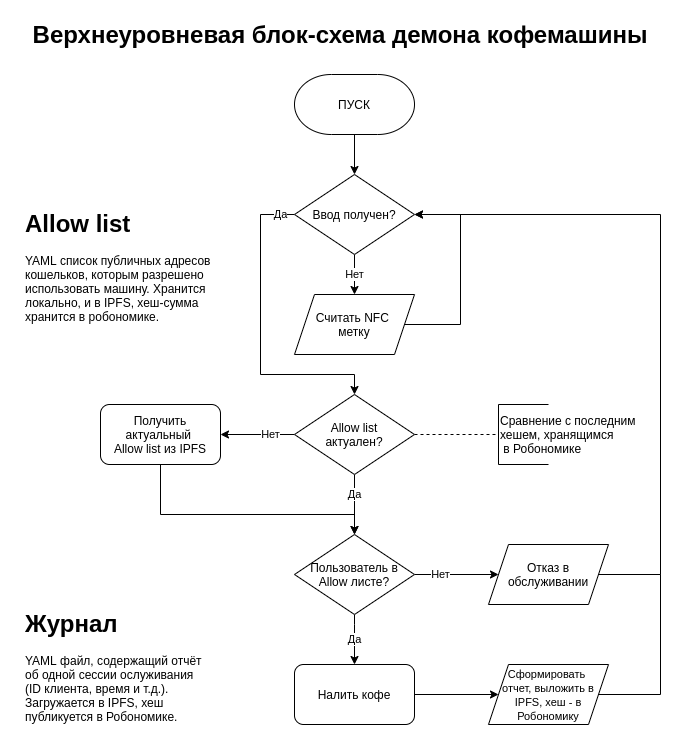
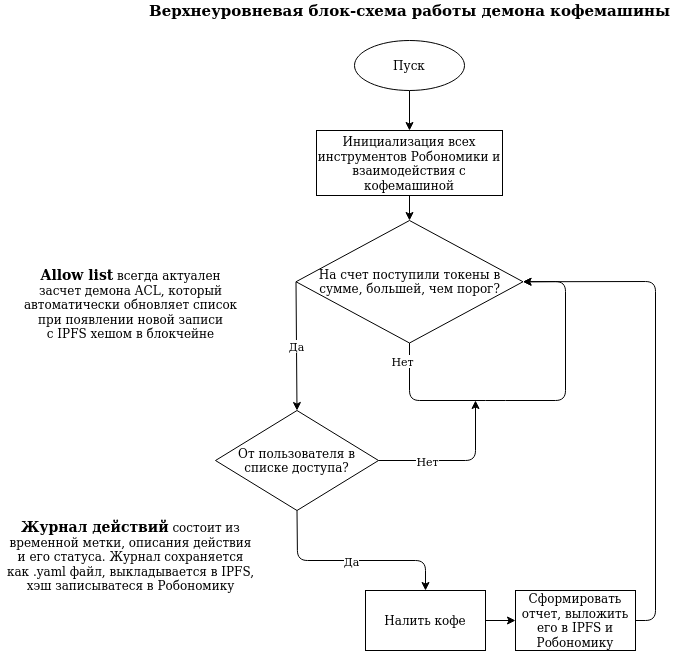
Removed NFC reader usage, now it's income tracker! Adjusted robonomics toolkit usage Updated readme

diff --git a/main.py b/main.py
@@ -1,11 +1,9 @@
-import rpi_funcs as rpi
-import io_funcs
 import sys
 import typing as tp
 import logging
 
 from classes import CoffeeMachine
-from robonomics_daos_toolkit import acl, action_logger, substrate_connection as subcon
+from robonomics_daos_toolkit import acl, action_logger, obtain_incomes, common_utils as cu
 
 # set up logging
 logging.basicConfig(
@@ -15,74 +13,66 @@ logging.basicConfig(
 )
 
 # load up configuration
-config: tp.Dict[str, tp.Any] = io_funcs.read_config()
-if not config:
-    logging.critical("Config load error, exiting")
-    sys.exit()
-else:
-    logging.info(f"Config load successful\n{config}")
+config: tp.Dict[str, tp.Any] = cu.read_yaml_file("config.yaml")
 
-# initializing all daos tools
-
-if config["use_daos_toolkit"]:
-    substrate = subcon.substrate_connection(config["daos_toolkit"]["substrate"])
-    if config["daos_toolkit"]["use_acl"]:
-        # initiate an instance of ACL class based on digital twin of a device
-        logging.info("initiating ACL class")
-        acl_obj = acl.ACL(config['daos_toolkit'], substrate)
-        if not acl_obj:
-            logging.critical("ACL instance error, exiting")
-            sys.exit()
-        else:
-            logging.info("ACL initiated")
-    if config["daos_toolkit"]["use_action_logger"]:
-        # initiate an instance of action logger
-        logging.info("initiating ActionLogger class")
-        action_logger = action_logger.ActionLogger(config['daos_toolkit'], substrate)
-        if not action_logger:
-            logging.critical("ActionLogger instance error, exiting")
-            sys.exit()
-        else:
-            logging.info("ActionLogger initiated")
+# connect to substrate
+substrate = cu.substrate_connection(config["daos_toolkit"]["substrate"])
 
 # initialize an instance of CoffeeMachine object
 coffee_machine = CoffeeMachine(
     gpio_outputs=[0, 21, 0, 0, 0, 0, 0]
 )
 
-# entry point
-if __name__ == "__main__":
-    logging.info("Daemon started")
 
-    # start the daemon
-    while True:
+# initializing all daos tools
+if config["use_daos_toolkit"]:
 
-        # poll NFC reader until input received
-        logging.info("Start polling NFC reader")
-        while True:
-            tag_id: str = rpi.poll_nfc_reader()
-            if tag_id:
-                logging.info(f"Found NFC tag with UID {tag_id}. Stopped polling")
-                break
+    if config["daos_toolkit"]["use_acl"]:
+        # initiate an instance of ACL class based on digital twin of a device
+        acl_obj = acl.ACL(config["daos_toolkit"], cu.substrate_connection(config["daos_toolkit"]["substrate"]))
+        if not acl_obj:
+            sys.exit()
 
-        if config["daos_toolkit"]["use_acl"]:
-            # check if user is allowed to use the machine
-            if not acl_obj.usage_allowed(tag_id):
-                logging.warning(f"UID {tag_id} is not in the allow list. Usage declined.")
-                continue
-            else:
-                logging.info(f"UID {tag_id} allowed. Continuing.")
+    if config["daos_toolkit"]["use_action_logger"]:
+        # initiate an instance of action logger
+        action_logger = action_logger.ActionLogger(config["daos_toolkit"],
+                                                   cu.substrate_connection(config["daos_toolkit"]["substrate"]))
+        if not action_logger:
+            sys.exit()
 
-        # make a coffee if usage allowed
-        operation = coffee_machine.make_a_coffee()
+logging.info("Coffee machine daemon started")
 
-        if operation["success"]:
-            logging.info("Operation successful.")
-            if config["daos_toolkit"]["use_action_logger"]:
-                action_logger.log_action(f"Making coffee for {tag_id}", "success")
+# start the daemon
+income_tracker = obtain_incomes.IncomeTracker(config["daos_toolkit"], substrate)
+
+while True:
+    # wait for money income event
+    income_tracker.money_income_event.wait()
+    income_tracker.money_income_event.clear()
+
+    if config["daos_toolkit"]["use_acl"]:
+        # check if user is allowed to use the machine
+        if not acl_obj.usage_allowed(income_tracker.money_income_event.source_address):
+            logging.warning(f"Account {income_tracker.money_income_event.source_address} is not in the allow list. "
+                            f"Usage declined. Thanks for the money")
+            continue
         else:
-            logging.error(f"Operation FAILED: {operation['message']}")
-            if config["daos_toolkit"]["use_action_logger"]:
-                action_logger.log_action(f"Making coffee for {tag_id}", "failure")
+            logging.info(f"Account {income_tracker.money_income_event.source_address} allowed. Continuing.")
 
-        logging.info("Session over")
+    # Coffee making part
+    operation = coffee_machine.make_a_coffee()
+
+    if operation["success"]:
+
+        logging.info("Operation successful.")
+        if config["daos_toolkit"]["use_action_logger"]:
+            action_logger.log_action(f"Making coffee for {income_tracker.money_income_event.source_address}.",
+                                     "success")
+    else:
+
+        logging.error(f"Operation FAILED.")
+        if config["daos_toolkit"]["use_action_logger"]:
+            action_logger.log_action(f"Making coffee for {income_tracker.money_income_event.source_address}.",
+                                     "FAILURE: " + operation["message"])
+
+    logging.info("Session over")

diff --git a/rpi_funcs.py b/rpi_funcs.py
@@ -1,5 +1,4 @@
 # functions which refer to hardware operation of a host machine (Raspberry Pi)
-import subprocess
 from gpiozero import LED
 from time import sleep
 import logging
@@ -10,23 +9,6 @@ logging.basicConfig(
     filename="daemon.log",
     format="%(asctime)s %(levelname)s: %(message)s"
 )
-
-
-def poll_nfc_reader() -> str:
-    """
-    polls nfc reader using libnfc cli interface.
-    polling has to be reinitialized every 36 seconds.
-
-    :return: UID of an NFC tag if found one
-    """
-
-    command = "sudo nfc-poll | grep UID | cut -d : -f 2"
-    output = subprocess.getoutput(command)
-    if output:
-        tag_id = output.split("\n")[1].strip()
-        return tag_id
-    else:
-        return ""
 
 
 def trigger_transistor(channel: int = 18) -> None:
